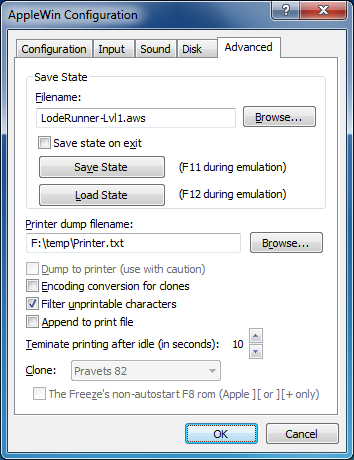
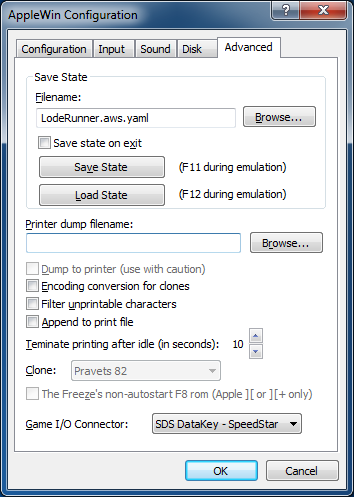
Help: add info about dongle

Changed region(s): [[0.0, 0.0, 1.0, 1.0], [0.9944, 0.0, 1.0, 0.0304], [0.0, 0.2739, 0.0311, 0.3043]]

diff --git a/help/cfg-advanced.html b/help/cfg-advanced.html
@@ -3,8 +3,9 @@
 <meta http-equiv="Content-Type" content="text/html; charset=windows-1252"><title>Advanced Settings</title></head>
 <body style="background-color: rgb(255, 255, 255); font-family: verdana;" alink="#008000" link="#008000" vlink="#008000">
 <h2 style="color: rgb(0, 128, 0);">Advanced Settings</h2>
-<hr size="4"><img style="width: 354px; height: 460px; float: right;" src="img/advanced.png" alt="Advanced settings" hspace="5" vspace="5">
-<p><strong>Save State File Name:</strong><br>
+<hr size="4"><img style="width: 354px; height: 497px; float: right;" src="img/advanced.png" alt="Advanced settings" hspace="5" vspace="5">
+
+<p><strong>Save State Filename:</strong><br>
 This is the file name to use for save-state files. The default
 directory is the same as where your AppleWin.exe program is stored.</p>
 <p><strong>Save State on Exit:</strong><br>
@@ -19,18 +20,7 @@ emulation by pressing the F11 key.</p>
 Press this button to load the specified state file into
 the emulator. &nbsp;You can also load the system state during
 emulation by pressing the F12 key.</p>
-<p><strong>Clone:</strong><br>
-If you have specified Computer as 'Clone' on the main Configuration
-page, then this drop-down menu can be used to specify the clone type.<br>
-NB. Pravets 82, 8M and 8A are Bulgarian Apple II clones; 
-TK3000 is a Brazilian //e clone; 
-Base 64A is a Taiwanese Apple II clone.<br>
-<ul>
-	<li>Pravets 8A: Use F10 for the Pravets Caps Lock (and the PC's Caps Lock key controls Cyrillic/Latin lock).
-	<li>TK3000: Use Scroll Lock for the 'mode' key. Use to switch between standard Apple II and accented characters.
-	<li>Base 64A: Use Delete for the 'F2' key (eg. press F2, release F2 then press a key to auto-type a BASIC keyword).
-</ul>
-</p>
+
 <p><strong>Printer settings </strong>(Printer is emulated in slot 1)
 </p>
 <p style="margin-left: 40px;"><strong>Printer dump filename:<br>
@@ -67,7 +57,21 @@ disable appending when dumping to a real printer.)
 </strong>When printing is started, a printer file is created and it is
 closed either after the specified time expires, or when
 the emulator is reset. This setting is emulation speed dependent.
- </p>
+</p>
+
+<p><strong>Clone:</strong><br>
+If you have specified Computer as 'Clone' on the main Configuration
+page, then this drop-down menu can be used to specify the clone type.<br>
+NB. Pravets 82, 8M and 8A are Bulgarian Apple II clones;
+TK3000 is a Brazilian //e clone;
+Base 64A is a Taiwanese Apple II clone.<br>
+<ul>
+	<li>Pravets 8A: Use F10 for the Pravets Caps Lock (and the PC's Caps Lock key controls Cyrillic/Latin lock).
+	<li>TK3000: Use Scroll Lock for the 'mode' key. Use to switch between standard Apple II and accented characters.
+	<li>Base 64A: Use Delete for the 'F2' key (eg. press F2, release F2 then press a key to auto-type a BASIC keyword).
+</ul>
+</p>
+
 <p><strong>The Freeze's non-autostart F8 rom:</strong><br>
 If you have specified Computer as 'Apple ][' or 'Apple ][+' on the main
 Configuration page, then you will be able to enable this setting.
@@ -75,4 +79,16 @@ The Freeze F8 rom is a hacker's rom that replaces the normal 2K rom at
 $F800. <a href="cfg-advanced-freeze-rom.html">Here's the
 original release note</a>
 </p>
+
+<p><strong>Game I/O Connector:</strong><br>
+From the drop-down menu, select a device to use in the internal Game I/O Connector.
+Supported devices are:
+<ul>
+	<li> Empty
+	<li> SDS Datakey - SpeedStar (copy protection dongle)
+</ul>
+NB. Copy protection dongles can interfere with joysticks (eg. buttons may be hardwired to a fixed state), so only use dongles with the intended software.<br>
+NB. For Apple II/II+ models, when a joystick is selected (from the <a href="cfg-input.html">Input</a> tab), then there is also an implicit joystick connected at the same time as the device selected here.
+</p>
+
 </body></html>

diff --git a/source/CopyProtectionDongles.cpp b/source/CopyProtectionDongles.cpp
@@ -26,7 +26,7 @@
   Emulate hardware copy protection dongles for Apple II
 
   Currently supported:
-	- Southwestern Data Systems SoftKey for Speed Star Applesoft Compiler
+	- Southwestern Data Systems DataKey for SpeedStar Applesoft Compiler
 
   Matthew D'Asaro  Dec 2022
 */
@@ -73,7 +73,7 @@ int CopyProtectionDonglePB2(void)
 {
 	switch (copyProtectionDongleType)
 	{
-	case DT_SDSSPEEDSTAR:	// Southwestern Data Systems SoftKey for Speed Star Applesoft Compiler
+	case DT_SDSSPEEDSTAR:	// Southwestern Data Systems DataKey for SpeedStar Applesoft Compiler
 		return SdsSpeedStar();
 		break;
 

diff --git a/source/Configuration/PageAdvanced.cpp b/source/Configuration/PageAdvanced.cpp
@@ -47,7 +47,7 @@ const TCHAR CPageAdvanced::m_CloneChoices[] =
 //enum GAMEIOCONNECTOR_CHOICE { MENUITEM_EMPTY, MENUITEM_SPEEDSTAR };
 const TCHAR CPageAdvanced::m_gameIOConnectorChoices[] =
 				TEXT("Empty\0")
-				TEXT("SDS DataKey - Speed Star\0");	// Protection dongle for Southwestern Data Systems "Speed Star" Applesoft Compiler
+				TEXT("SDS DataKey - SpeedStar\0");	// Protection dongle for Southwestern Data Systems "SpeedStar" Applesoft Compiler
 
 
 INT_PTR CALLBACK CPageAdvanced::DlgProc(HWND hWnd, UINT message, WPARAM wparam, LPARAM lparam)
